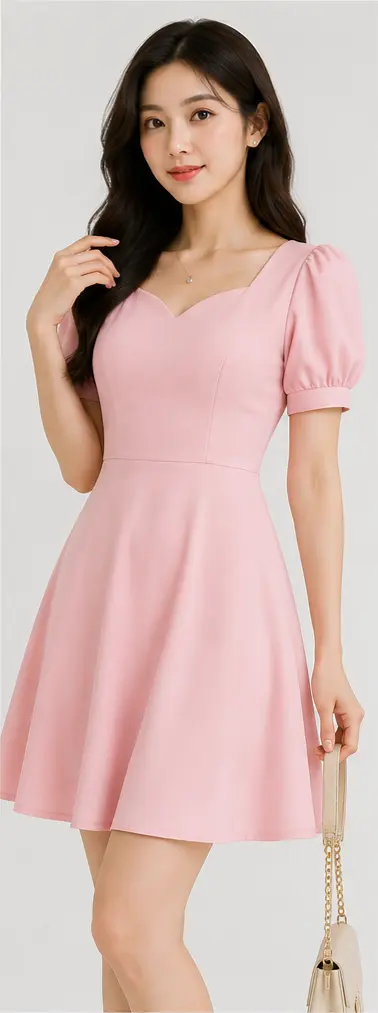
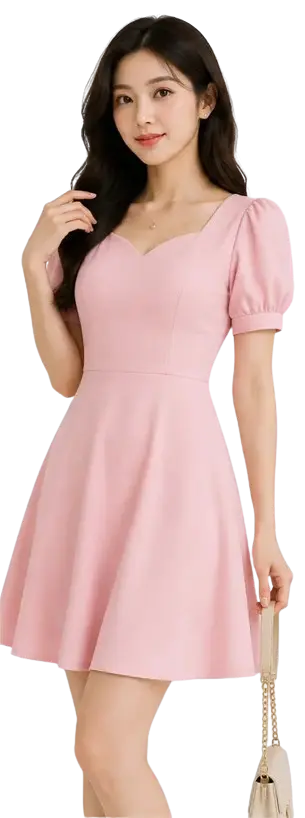
Replace all images to webp

diff --git a/Frontend/src/components/ProductCard.tsx b/Frontend/src/components/ProductCard.tsx
@@ -17,8 +17,13 @@ export default function ProductCard({ name, slug, image_url, price, lazy }: Prod
       to={`/products/${slug}`}
       className="max-h-120 flex flex-col"
     >
-      <div className="relative flex min-h-[60%] items-center overflow-hidden bg-gray-dark ">
-        <img loading={lazy ? 'lazy' : 'eager'} src={`${API_URL}${image_url}-1.webp`} alt={name} className="transition-all duration-200 hover:scale-105 hover:brightness-90" />
+      <div className="relative flex min-h-[60%] items-center justify-center overflow-hidden bg-[#f0f0f0]">
+        <img
+          loading={lazy ? 'lazy' : 'eager'}
+          src={`${API_URL}${image_url}-1.webp`}
+          alt={name}
+          className="h-full transition-all duration-200 hover:scale-105 hover:brightness-90"
+        />
       </div>
 
       <div className="pt-3 flex flex-col gap-0.5">

diff --git a/Frontend/src/components/DiscountCollection.tsx b/Frontend/src/components/DiscountCollection.tsx
@@ -42,7 +42,7 @@ export default function DiscountColection({ title, slug, products }: DiscountCol
             className="flex flex-col items-center hover:border"
           >
             <div className="relative flex items-center overflow-hidden">
-              <img src={`${API_URL}${image_url}-1.png`} alt={image_url} className="bg-gray-dark transition-all duration-200 hover:scale-105 hover:brightness-90" />
+              <img src={`${API_URL}${image_url}-1.webp`} alt={image_url} className="bg-gray-dark transition-all duration-200 hover:scale-105 hover:brightness-90" />
               <div className="absolute top-0 right-0 py-2 px-2 flex text-center w-12 bg-red-700 text-sm text-white font-semibold">{discount}% Off</div>
             </div>
 

diff --git a/Frontend/src/pages/homepage/Homepage.tsx b/Frontend/src/pages/homepage/Homepage.tsx
@@ -2,10 +2,10 @@ import { Link } from "react-router";
 import Reviews from "./Reviews";
 import TopSeller from "./TopSeller";
 import ProductCategories from "./ProductCategories";
-import mainAds from '../../assets/main_ads.png'
-import blibli from '../../assets/logo/blibli.png'
-import tokopedia from '../../assets/logo/tokopedia.png'
-import shopee from '../../assets/logo/shopee.png'
+import mainAds from '@/assets/main_ads.webp'
+import blibli from '@/assets/logo/blibli.webp'
+import tokopedia from '@/assets/logo/tokopedia.webp'
+import shopee from '@/assets/logo/shopee.webp'
 
 export default function Homepage() {
   return (

diff --git a/Frontend/src/pages/product-category-page/ProductCategoryPage.tsx b/Frontend/src/pages/product-category-page/ProductCategoryPage.tsx
@@ -50,7 +50,7 @@ export default function ProductCategoryPage() {
 
         <Toolbar openFilter={openFilter} setOpenFilter={setOpenFilter} />
 
-        <div className="mb-8 grid grid-cols-4 auto-rows-96">
+        <div className="mb-8 grid grid-cols-4 auto-rows-96 gap-y-8">
           {isPending ? (
             Array.from({ length: 8 }).map((_, index) => (
               <ProductCardSkeleton key={index} />

diff --git a/Frontend/src/components/layout/Footer.tsx b/Frontend/src/components/layout/Footer.tsx
@@ -1,7 +1,7 @@
 import { Link } from "react-router"
-import location from '@/assets/location.png'
-import whatsapp from '@/assets/whatsapp.png'
-import email from '@/assets/email.png'
+import location from '@/assets/location.webp'
+import whatsapp from '@/assets/whatsapp.webp'
+import email from '@/assets/email.webp'
 
 const footerSections = [
     {

diff --git a/Frontend/index.html b/Frontend/index.html
@@ -3,7 +3,7 @@
 
 <head>
   <meta charset="UTF-8" />
-  <link rel="icon" type="image/svg+xml" href="/favicon.png" />
+  <link rel="icon" type="image/svg+xml" href="/favicon.webp" />
   <meta name="viewport" content="width=device-width, initial-scale=1.0" />
   <title>Avora | Premium Underwear</title>
 </head>

diff --git a/Frontend/src/components/layout/NavBar.tsx b/Frontend/src/components/layout/NavBar.tsx
@@ -1,6 +1,6 @@
 import { NavLink, Link } from "react-router";
 import { useState, useEffect } from "react";
-import brandName from '@/assets/brand-name.png'
+import brandName from '@/assets/brand-name.webp'
 
 const navItems = [
   { name: 'NEW ARRIVAL', path: '/new_arrival' },
